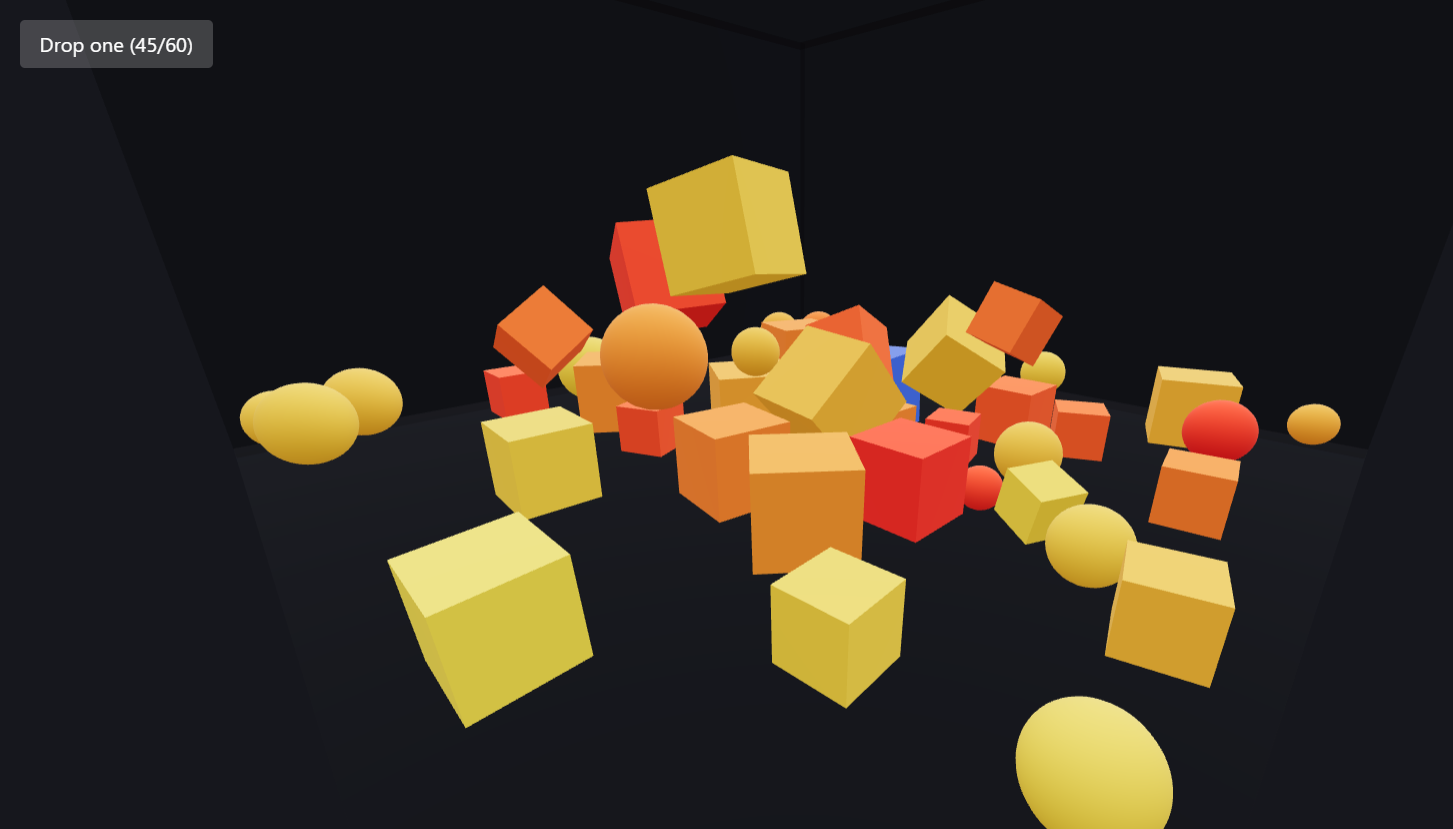
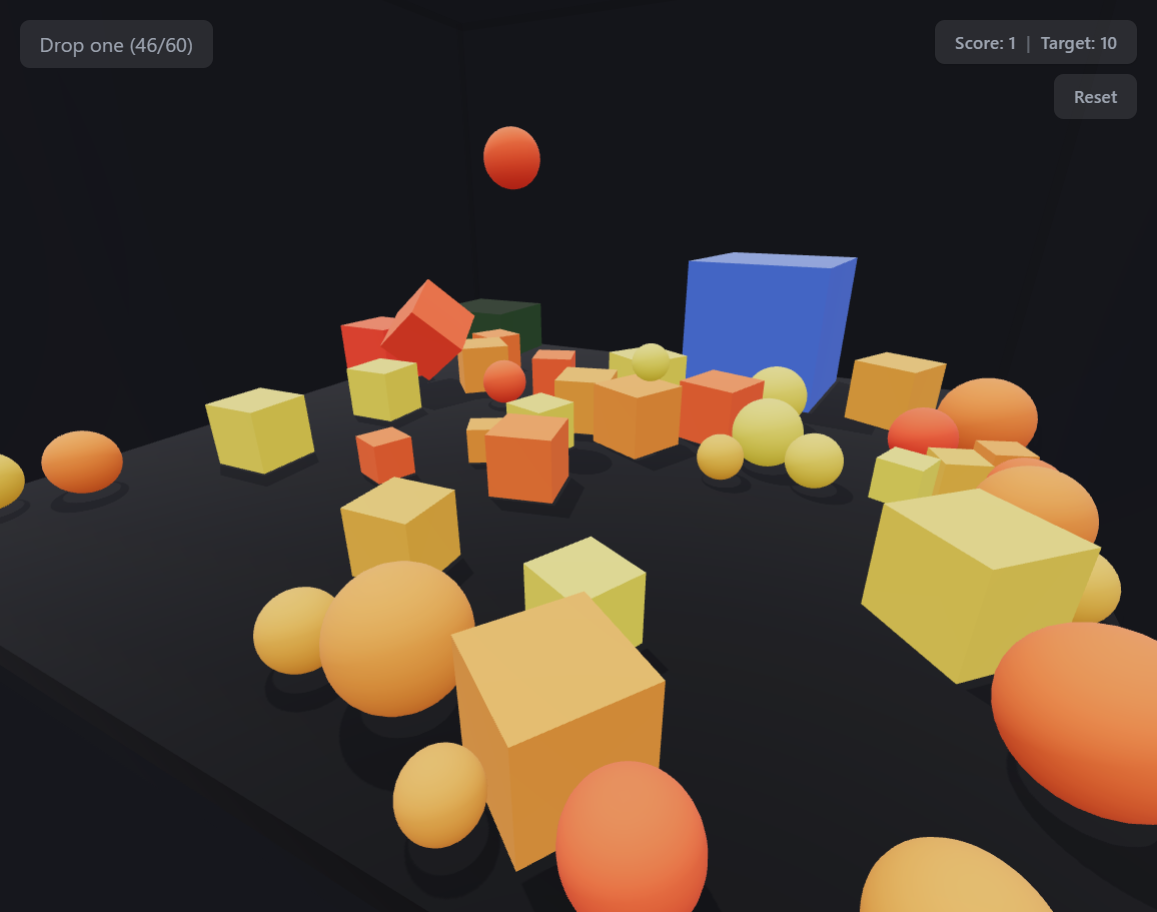
update readme

diff --git a/README.md b/README.md
@@ -1,34 +1,56 @@
 # Physics Toys
 
-A small physics playground built with React Three Fiber and Rapier. Drop shapes into an arena and watch them fall, bounce and pile up.
+A physics playground built with React Three Fiber and Rapier. Drop shapes into an arena, launch them with a click, and get ten of them into the goal to win.
 
 ![Preview](./screenshots/preview.png)
+
+**Live demo:** https://your-app.vercel.app
+
+## How to play
+
+- **Drop one** spawns a random box or ball
+- **Click a toy** to launch it away from where you clicked
+- **Drag** to orbit the camera, **scroll** to zoom
+- Get toys into the green zone: score 10 to win
+- **Reset** starts a fresh round
 
 ## Features
 
 - Rapier physics: gravity, collisions, friction and bounce
-- Random boxes and balls spawn with their own size and bounciness
-- Colour shows bounciness, so you can read the physics by eye
-- Arena with a floor and walls, and a debug view of the colliders
+- Each toy spawns with a random size and bounciness, and its colour shows how bouncy it is
+- Click-to-launch impulses, scaled by mass so big and small toys feel alike
+- Goal zone built from a sensor collider, with no double counting
+- Soft shadows, a win screen and a one-click reset
 - Toy count capped at 60 (the oldest is removed)
 
 ## Tech
 
-React, Vite, Three.js, @react-three/fiber, @react-three/drei, @react-three/rapier
+React, Vite, Three.js, @react-three/fiber, @react-three/drei, @react-three/rapier, Tailwind CSS. Deployed on Vercel.
 
 ## Run locally
 
     npm install
     npm run dev
 
-## Roadmap
-
-- [ ] Click a toy to launch it with an impulse
-- [ ] Goal zone and score counter
-- [ ] Deploy
-
-## What I'm learning
+## What I learned
 
 - Dynamic vs fixed rigid bodies, and colliders vs meshes
-- Why physics objects own their position (not React state)
-- Sleeping bodies, and why a settled pile is cheap
+- Why physics bodies own their position instead of React state
+- Impulses, and why mass matters
+- Sensors and collision events, with `userData` to identify bodies
+- Resetting a whole physics world with a `key`
+- Shadow setup: renderer, light, shadow camera and meshes
+
+## Roadmap
+
+- [x] Arena with spawning toys
+- [x] Click to launch with an impulse
+- [x] Goal zone and score
+- [x] Shadows, win screen and reset
+- [ ] Sound on bounce and goal
+- [ ] Moving obstacles (kinematic bodies)
+- [ ] Touch-friendly controls
+
+## Credits
+
+Built with [React Three Fiber](https://r3f.docs.pmnd.rs/) and [Rapier](https://rapier.rs/).
